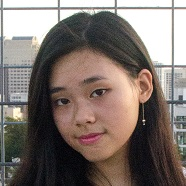
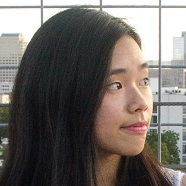
JOCH Update
Minor change to JO Image

diff --git a/views/about.html b/views/about.html
@@ -252,10 +252,10 @@
 					</div>
 					<div class="row three">
 						<div class="portrait">
-							<img src="../images/portrait/rk.jpg">
-							<img src="../images/portrait/rk-flip.jpg">
-							<h1> Ryan Kwong </h1>
-							<p> Media JO </p>
+							<img src="../images/portrait/joch.jpg">
+							<img src="../images/portrait/joch-flip.jpg">
+							<h1> Jocelyn Harnold </h1>
+							<p> Philanthropy JO </p>
 						</div>
 						<div class="portrait">
 							<img src="../images/portrait/alc.jpg">
@@ -264,120 +264,13 @@
 							<p> Web JO </p>
 						</div>
 						<div class="portrait">
-							<img src="../images/portrait/joch.jpg">
-							<img src="../images/portrait/joch-flip.jpg">
-							<h1> Jocelyn Harnold </h1>
-							<p> Philanthropy JO </p>
+							<img src="../images/portrait/rk.jpg">
+							<img src="../images/portrait/rk-flip.jpg">
+							<h1> Ryan Kwong </h1>
+							<p> Media JO </p>
 						</div>
 					</div>
 				</div>
-
-				<!-- JO LIST FROM 16-17 (Template) -->
-				<!--
-				<div class="row-container">
-					<div>
-						<h1 class="title"> MEET OUR JUNIOR OFFICERS </h1>
-					</div>
-					<div class="row five">
-						<div class="portrait">
-					   		<img src="../images/portrait/ac.jpg">
-					   		<img src="../images/portrait/ac-flip.jpg">
-					   		<h1> Alan Cooper </h1>
-					   		<p> Internal JO </p>
-					   	</div>					
-					   	<div class="portrait">
-					   		<img src="../images/portrait/ic.jpg">
-					   		<img src="../images/portrait/ic-flip.jpg">
-					   		<h1> Irene Chiang </h1>
-					   		<p> Internal JO </p>
-					   	</div>
-					   	<div class="portrait">
-					   		<img src="../images/portrait/jch.jpg">
-					   		<img src="../images/portrait/jch-flip.jpeg">
-					   		<h1> Jessie Chen </h1>
-					   		<p> Internal JO </p>
-					   	</div>
-						<div class="portrait">
-					   		<img src="../images/portrait/es.jpg">
-					   		<img src="../images/portrait/es-flip.jpg">
-					   		<h1> Eric Sun </h1>
-					   		<p> Internal JO </p>
-					   	</div>
-						<div class="portrait">
-					   		<img src="../images/portrait/cl.jpg">
-					   		<img src="../images/portrait/cl-flip.jpg">
-					   		<h1> Cynthia Lin </h1>
-					   		<p> External JO </p>
-					   	</div>
-					</div>
-
-					<div class="row five">
-						<div class="portrait">
-					   		<img src="../images/portrait/lc.jpg">
-					   		<img src="../images/portrait/lc-flip.jpg">
-					   		<h1> Lawrence Chu </h1>
-					   		<p> Special Events JO </p>
-					   	</div>
-						<div class="portrait">
-					   		<img src="../images/portrait/js.jpg">
-					   		<img src="../images/portrait/js-flip.jpg">
-					   		<h1> Jessie Sun </h1>
-					   		<p> Special Events JO </p>
-					   	</div>
-					   	<div class="portrait">
-					   		<img src="../images/portrait/jli.jpg">
-					   		<img src="../images/portrait/jli-flip.jpg">
-					   		<h1> Justin Lin </h1>
-					   		<p> Finance JO </p>
-					   	</div>					
-					   	<div class="portrait">
-					   		<img src="../images/portrait/bt.jpg">
-					   		<img src="../images/portrait/bt-flip.jpg">
-					   		<h1> Brandon Tang </h1>
-					   		<p> Finance JO </p>
-					   	</div>
-					   	<div class="portrait">
-					   		<img src="../images/portrait/cp.jpg">
-					   		<img src="../images/portrait/cp-flip.jpg">
-					   		<h1> Claire Pippin </h1>
-					   		<p> Marketing JO </p>
-					   	</div>
-					</div>
-
-					<div class="row five">
-						<div class="portrait">
-					   		<img src="../images/portrait/ll.jpg">
-					   		<img src="../images/portrait/ll-flip.jpg">
-					   		<h1> Lillianne Le </h1>
-					   		<p> Media JO </p>
-					   	</div>		
-					   	<div class="portrait">
-					   		<img src="../images/portrait/kh.png">
-					   		<img src="../images/portrait/kh-flip.png">
-					   		<h1> Kenneth Hinh </h1>
-					   		<p> Media JO </p>
-					   	</div>		
-						<div class="portrait">
-					   		<img src="../images/portrait/cw.png">
-					   		<img src="../images/portrait/cw-flip.png">
-					   		<h1> Chelsea Wang </h1>
-					   		<p> Communications JO </p>
-					   	</div>					
-					   	<div class="portrait">
-					   		<img src="../images/portrait/aw.jpg">
-					   		<img src="../images/portrait/aw-flip.jpg">
-					   		<h1> Ann Wang </h1>
-					   		<p> Philanthropy JO </p>
-					   	</div>
-					   	<div class="portrait">
-					   		<img src="../images/portrait/cc.jpg">
-					   		<img src="../images/portrait/cc-flip.jpg">
-					   		<h1> Chris Chiu </h1>
-					   		<p> Athletics JO </p>
-					   	</div>
-					</div>
-				</div>
-				-->
 
 				<div class="highlight-container">
 					<div id="trigger1"></div>
